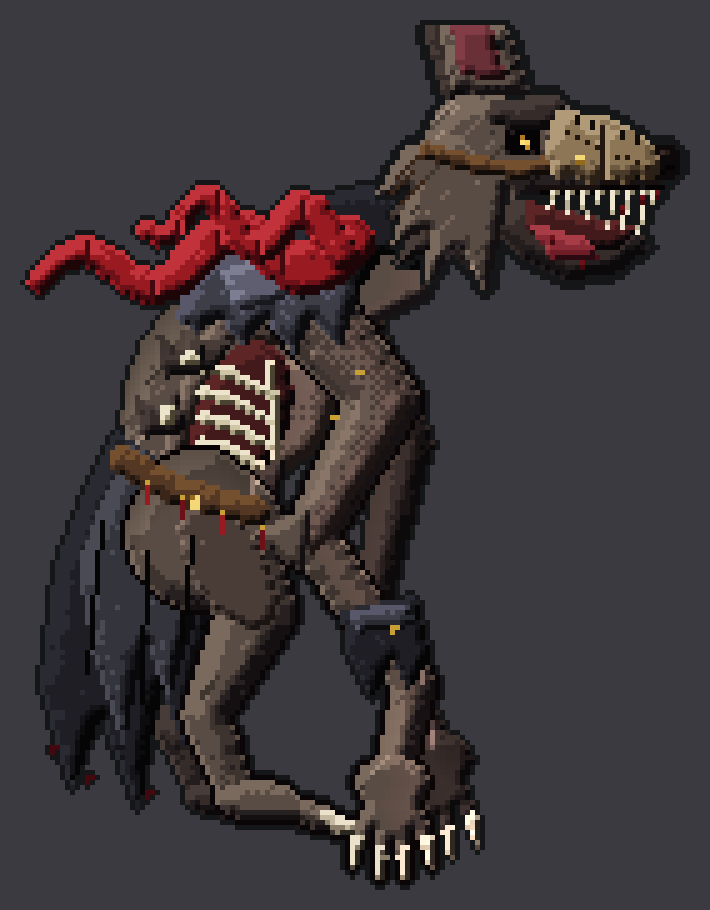
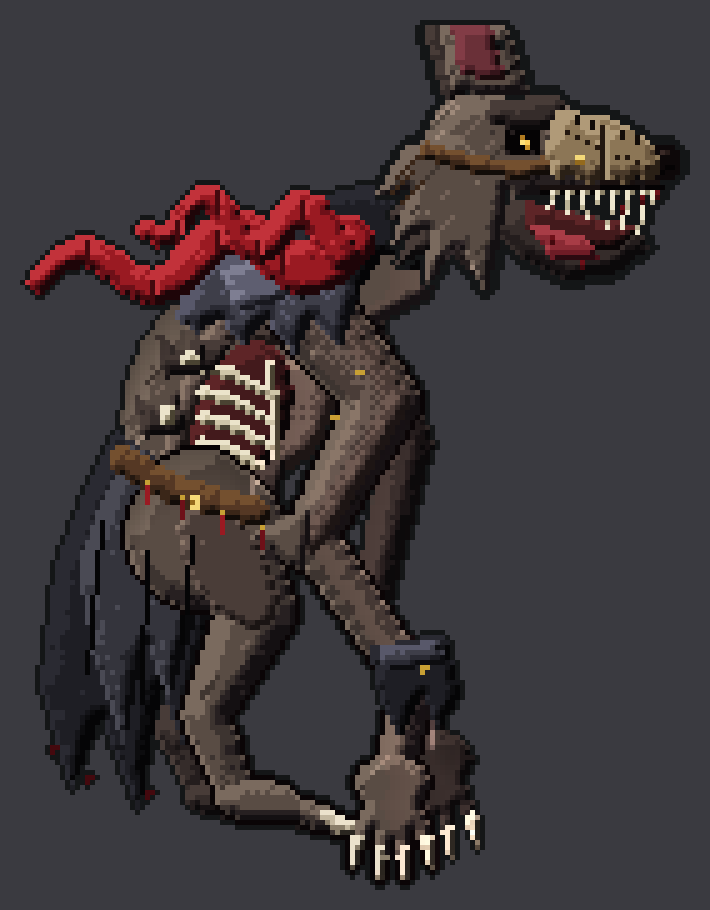
Verger beast: run and attack poses
Claude-Session: https://claude.ai/code/session_01Jpd5tdDJTR7BVueAYV1KDM

Changed region(s): [[0.4648, 0.6462, 0.6507, 0.8308]]

diff --git a/ArtSource/make_verger_beast_coat.py b/ArtSource/make_verger_beast_coat.py
@@ -15,7 +15,7 @@ def cloth(build, cols, seed, **kw):
     m = Mask(S); build(m); return shade(m, cols, tex=kw.pop('tex', 0.16), seed=seed, **kw)
 X = lambda x: int(round(x * K)); YY = lambda y: int(round((y + OY) * K))
 SCARF = None
-def coat_layers():
+def coat_layers(wrist=(62, 77)):
     back, front, cuff = [], [], []
     # the tail-coat: two layers of ragged strips hanging off the waist and dragging behind
     back.append(cloth(lambda m: PL(m, [(26, 48), (38, 56), (39, 74), (35, 90), (32, 82), (29, 99), (24, 86), (20, 96), (16, 82), (18, 66), (22, 56)]), COATD, 31, depth=3.0))
@@ -27,8 +27,9 @@ def coat_layers():
     # the belt: leather across the narrow waist
     belt = Mask(S); T(belt, [(27, 52), (34, 56), (45, 59)], [3.6, 3.6, 3.6]); cuff.append(shade(belt, LEATHER, depth=1.2, tex=0.2, seed=36))
     # the cuff on the near wrist: a ragged sleeve end with a button
-    cuff.append(cloth(lambda m: PL(m, [(56, 72), (66, 70), (68, 78), (65, 83), (63, 78), (60, 84), (57, 78)]), COATD, 37, depth=1.8))
-    cuff.append(cloth(lambda m: PL(m, [(57, 72), (65, 71), (66, 74), (58, 75)]), COATL, 38, depth=1.0, gain=0.9))
+    bd.LIMB = True; wx, wy = wrist[0] - 62, wrist[1] - 77                                    # the cuff follows the near wrist, not the trunk
+    cuff.append(cloth(lambda m: PL(m, [(56 + wx, 72 + wy), (66 + wx, 70 + wy), (68 + wx, 78 + wy), (65 + wx, 83 + wy), (63 + wx, 78 + wy), (60 + wx, 84 + wy), (57 + wx, 78 + wy)]), COATD, 37, depth=1.8))
+    cuff.append(cloth(lambda m: PL(m, [(57 + wx, 72 + wy), (65 + wx, 71 + wy), (66 + wx, 74 + wy), (58 + wx, 75 + wy)]), COATL, 38, depth=1.0, gain=0.9)); bd.LIMB = False
     # the collar: high and ragged, round the base of the neck
     cuff.append(cloth(lambda m: PL(m, [(47, 25), (53, 17), (60, 15), (68, 18), (66, 27), (62, 24), (58, 30), (54, 25), (51, 31)]), COATD, 39, depth=2.0))
     # the scarf: flung back off the neck, two torn tails
@@ -36,13 +37,15 @@ def coat_layers():
     def tail(x0, y0, x1, wid, sag, phase, seed, drop):
         n = 14; pts = [(x0 + (x1 - x0) * i / n, y0 + sag * (i / n) ** 1.5 * 10 + 3.2 * math.sin(i * 0.9 + phase) + drop * (i / n)) for i in range(n + 1)]
         ws = [wid * (1 - 0.65 * (i / n)) + 1 for i in range(n + 1)]
-        m = Mask(S); T(m, pts, ws); return shade(m, RED, depth=2.0, tex=0.2, seed=seed), pts
+        a = math.radians(bd.POSE['scarf_rot']); sx, sy = (bd.tf(58, 24, True)[0] - bd.tf(58, 24, False)[0], bd.tf(58, 24, True)[1] - bd.tf(58, 24, False)[1])   # the scarf hangs from the tilted neck but flies by the wind, not with the trunk
+        pts = [(x0 + (x - x0) * math.cos(a) - (y - y0) * math.sin(a) + sx, y0 + (x - x0) * math.sin(a) + (y - y0) * math.cos(a) + sy) for x, y in pts]
+        bd.LIMB = True; m = Mask(S); T(m, pts, ws); bd.LIMB = False; return shade(m, RED, depth=2.0, tex=0.2, seed=seed), pts
     t1, p1 = tail(57, 23, 16, 6.2, 0.2, 0.0, 40, 3); cuff.append(t1)
     t2, p2 = tail(56, 22, 30, 3.8, 0.0, 2.4, 41, -3); cuff.append(t2)
     global SCARF; SCARF = (p1, p2)
     return back, front, cuff
-def beast():
-    far, near = lm.limbs_pair(); back, front, cuff = coat_layers()
+def beast(J=None):
+    J = J or lm.STAND; far, near = lm.limbs_pair(J); wrist = J['near']['arm'][-2]; back, front, cuff = coat_layers(wrist)
     im = Image.new("RGBA", S, (0, 0, 0, 0)); im.alpha_composite(far); im.alpha_composite(lm.tone(bd.trunk()))
     for l in back: im.alpha_composite(l)
     for l in front: im.alpha_composite(l)
@@ -50,14 +53,15 @@ def beast():
     for l in cuff: im.alpha_composite(l)
     for pts in SCARF:                                                                                                                           # folds: dark creases across the cloth and lit edges
         for i in range(3, len(pts) - 1, 3):
-            x, y = pts[i]; px(im, [(X(x), YY(y) - 2 + k) for k in range(0, 5)], RED[1]); px(im, [(X(x) + 1, YY(y) - 2 + k) for k in range(0, 3)], RED[4])
-    # hand-placed detail: the clasp and vials on the belt, buttons down the coat, torn hems, stitches, blood
-    for (x, c) in ((30, RED[3]), (35, RED[2]), (40, RED[3]), (45, RED[2])): y0 = 52 + (x - 27) * 0.39 + 2.2; px(im, [(X(x), YY(y0) + k) for k in range(4)], c); px(im, [(X(x), YY(y0) - 1)], BRASS[3])
-    px(im, [(X(36) + dx, YY(56.4) + dy) for dx in range(2) for dy in range(3)], BRASS[4]); px(im, [(X(36), YY(57))], BRASS[2])
-    for (x, y) in ((58, 40), (55, 46)): px(im, [(X(x), YY(y)), (X(x) + 1, YY(y))], BRASS[3])                                                     # buttons on the shoulder rag
-    px(im, [(X(63), YY(74)), (X(63) + 1, YY(74)), (X(63), YY(74) + 1)], BRASS[3])                                                                 # the cuff button
-    for (x0, y0, x1, y1) in ((24, 60, 22, 80), (30, 64, 29, 84), (36, 62, 35, 76)): line(im, X(x0), YY(y0), X(x1), YY(y1), COATD[0])                 # seams and tears down the tail
-    for (x, y) in ((22, 94), (30, 96), (17, 90)): px(im, [(X(x), YY(y)), (X(x) + 1, YY(y)), (X(x), YY(y) + 1)], RED[1])                           # blood dried into the hem
+            bd.LIMB = True; x0, y0 = bd.XY(*pts[i]); bd.LIMB = False; px(im, [(x0, y0 - 2 + k) for k in range(0, 5)], RED[1]); px(im, [(x0 + 1, y0 - 2 + k) for k in range(0, 3)], RED[4])
+    # hand-placed detail: the clasp and vials on the belt, buttons, seams down the tail, blood in the hem
+    for (x, col) in ((30, RED[3]), (35, RED[2]), (40, RED[3]), (45, RED[2])):
+        yy0 = 52 + (x - 27) * 0.39 + 2.2; x0, y0 = bd.XY(x, yy0); px(im, [(x0, y0 + k) for k in range(4)], col); px(im, [(x0, y0 - 1)], BRASS[3])
+    x0, y0 = bd.XY(36, 56.4); px(im, [(x0 + dx, y0 + dy) for dx in range(2) for dy in range(3)], BRASS[4]); px(im, [(x0, y0 + 1)], BRASS[2])
+    for (x, y) in ((58, 40), (55, 46)): x0, y0 = bd.XY(x, y); px(im, [(x0, y0), (x0 + 1, y0)], BRASS[3])
+    bd.LIMB = True; x0, y0 = bd.XY(wrist[0] + 1, wrist[1] - 3); bd.LIMB = False; px(im, [(x0, y0), (x0 + 1, y0), (x0, y0 + 1)], BRASS[3])
+    for (xa, ya, xb, yb) in ((24, 60, 22, 80), (30, 64, 29, 84), (36, 62, 35, 76)): p0 = bd.XY(xa, ya); p1 = bd.XY(xb, yb); line(im, p0[0], p0[1], p1[0], p1[1], COATD[0])
+    for (x, y) in ((22, 94), (30, 96), (17, 90)): x0, y0 = bd.XY(x, y); px(im, [(x0, y0), (x0 + 1, y0), (x0, y0 + 1)], RED[1])
     return bd.with_head(im)
 if __name__ == "__main__":
     f = crop(beast(), 2); f.save(os.path.join(OUT, "verger_beast_coat.png"))

diff --git a/ArtSource/make_verger_beast_poses.py b/ArtSource/make_verger_beast_poses.py
@@ -1,0 +1,41 @@
+# Verger beast: the run and attack poses (Yan, 2026-11-20: "Draw the run and attack poses"), built from the same parts as the standing pose (make_verger_beast_coat.py) with a new pose: the trunk, head, coat and scarf lean round the pelvis, the limbs are placed joint by joint.
+# python3 ArtSource/make_verger_beast_poses.py -> mutants_anim/boss_concepts/verger_beast_poses_4x.png (+ verger_beast_run.png, verger_beast_attack.png)
+import os, sys
+import numpy as np
+from PIL import Image
+sys.path.insert(0, os.path.dirname(os.path.abspath(__file__)))
+from pxart import *
+import make_verger_beast_body as bd
+import make_verger_beast_limbs as lm
+import make_verger_beast_coat as ct
+from make_verger_beast import BONE
+OUT = os.path.join(os.path.dirname(os.path.abspath(__file__)), 'mutants_anim', 'boss_concepts')
+def H(h, w, **kw): return dict(haunch=h, **kw)
+POSES = {
+  # galloping, all fours, mid-stride, airborne: the body nearly level, the head up and forward, the hind legs thrown back, the forelegs reaching, the coat and scarf streaming behind
+  'run': dict(pose=dict(tilt=58, pivot=(34, 58), ox=22, oy=-4, head_rot=-34, jaw=20, scarf_rot=10),
+    J=dict(far=dict(haunch=(34, 62, 8.5, 8.5), leg=[(34, 60), (24, 72), (14, 78), (5, 90)], paw=(7, 92), arm=[(60, 52), (72, 60), (84, 68), (94, 80)], hand=(94, 82)),
+           near=dict(haunch=(36, 62, 10.5, 10), leg=[(37, 58), (51, 68), (41, 80), (49, 93)], paw=(52, 94), arm=[(62, 54), (64, 68), (58, 82), (62, 94)], hand=(62, 95)))),
+  # the swipe: reared up and leaning in, the head thrust forward with the jaw wide, the near arm swung high and across, the far arm cocked back, the legs braced
+  'attack': dict(pose=dict(tilt=22, pivot=(34, 58), ox=4, oy=0, head_rot=12, jaw=34, scarf_rot=-6),
+    J=dict(far=dict(haunch=(36, 62, 8.5, 8.5), leg=[(34, 60), (44, 74), (34, 88), (36, 97)], paw=(39, 98), arm=[(50, 34), (62, 52), (74, 66), (84, 76)], hand=(84, 78)),
+           near=dict(haunch=(38, 62, 10.5, 10), leg=[(37, 58), (54, 70), (46, 86), (56, 97)], paw=(59, 98), arm=[(58, 36), (74, 56), (90, 66), (102, 64), (110, 62)], hand=(110, 64)))),
+}
+def draw(name):
+    P = POSES[name]; bd.POSE.update(dict(tilt=0.0, pivot=(34, 58), ox=0.0, oy=0.0, head_rot=0.0, jaw=16)); bd.POSE.update(P['pose'])
+    im = ct.beast(P['J'])
+    if name == 'attack':                                                                    # the swing's trail: pale arcs sweeping down to the claws, brightest at the hand
+        for k, (r0, ww) in enumerate(((30, 3), (25, 2), (20, 2))):
+            n = 24
+            for i in range(n):
+                t = i / n; ang = np.radians(-78 + 76 * t); x = 82 + r0 * np.cos(ang); y = 90 + r0 * np.sin(ang)
+                for dd in range(ww): px(im, [(int(round((x + bd.POSE['ox']) * bd.K)) + dd, int(round((y + 14) * bd.K)) + dd // 2)], BONE[4 if t > 0.55 else 3 if t > 0.3 else 2])
+    bd.POSE.update(dict(tilt=0.0, ox=0.0, oy=0.0, head_rot=0.0, jaw=16)); return im
+if __name__ == "__main__":
+    cells = {}
+    for n in POSES: cells[n] = crop(draw(n), 2); cells[n].save(os.path.join(OUT, "verger_beast_%s.png" % n))
+    cells = {'stand': crop(ct.beast(), 2), **cells}
+    W = sum(c.width for c in cells.values()) * 4 + 80; Hh = max(c.height for c in cells.values()) * 4 + 40
+    sheet = Image.new("RGBA", (W, Hh), (58, 58, 64, 255)); x = 20
+    for n, c in cells.items(): sheet.alpha_composite(c.resize((c.width * 4, c.height * 4), Image.NEAREST), (x, Hh - c.height * 4 - 20)); x += c.width * 4 + 20
+    sheet.save(os.path.join(OUT, "verger_beast_poses_4x.png")); print({n: c.size for n, c in cells.items()})

diff --git a/ArtSource/make_verger_beast_body.py b/ArtSource/make_verger_beast_body.py
@@ -9,12 +9,24 @@ import make_verger_beast as mb
 from make_verger_beast import FUR, FURD, BONE, DARK, strands
 import make_verger_beast_head as hd
 OUT = os.path.join(os.path.dirname(os.path.abspath(__file__)), 'mutants_anim', 'boss_concepts')
-K = 1.5; OY = 14; S = (190, 200)
-def Y(pts): return [(x * K, (y + OY) * K) for x, y in pts]
+K = 1.5; OY = 14; S = (250, 210)
+import math
+POSE = dict(tilt=0.0, pivot=(34, 58), ox=0.0, oy=0.0, head_rot=0.0, jaw=16, scarf_rot=0.0)       # the pose: the trunk, head, coat and scarf lean by `tilt` round the pelvis, `ox/oy` slide everything, the head turns and the jaw opens
+LIMB = False                                                                          # True while the limbs are drawn: they are placed by hand and do not follow the tilt
+def tf(x, y, tilt=True):
+    p = POSE
+    if tilt and p['tilt']:
+        a = math.radians(p['tilt']); dx, dy = x - p['pivot'][0], y - p['pivot'][1]
+        x, y = p['pivot'][0] + dx * math.cos(a) - dy * math.sin(a), p['pivot'][1] + dx * math.sin(a) + dy * math.cos(a)
+    return x + p['ox'], y + p['oy']
+def XY(x, y, tilt=True):
+    a, c = tf(x, y, tilt and not LIMB); return int(round(a * K)), int(round((c + OY) * K))
+def Y(pts): return [((lambda q: (q[0] * K, (q[1] + OY) * K))(tf(x, y, not LIMB))) for x, y in pts]
 def wd(w): return [v * K for v in w]
 def T(m, pts, w): return m.tube(Y(pts), wd(w))
 def PL(m, pts): return m.poly(Y(pts))
-def E(m, cx, cy, rx, ry, rot=0): return m.ell(cx * K, (cy + OY) * K, rx * K, ry * K, rot)
+def E(m, cx, cy, rx, ry, rot=0):
+    x, y = tf(cx, cy, not LIMB); return m.ell(x * K, (y + OY) * K, rx * K, ry * K, rot + (0 if LIMB else POSE['tilt']))
 MUSC = ramp("#1a1413", "#2f2624", "#4a3d38", "#695850", "#8a7668")        # lit muscle under thin fur
 def trunk():
     L = []
@@ -45,9 +57,11 @@ def trunk():
     part(lambda m: PL(m, [(52, 24), (60, 18), (70, 20), (68, 30), (60, 34), (54, 32)]), FUR, fur=70, depth=2, tex=0.2, seed=25)
     return paint(S, L)
 def with_head(body):
-    h = hd.head(); ax, ay = 14, 40                                           # the head's neck anchor
-    nx, ny = int(66 * K) + 6, int((21 + OY) * K)                             # where the neck ends on the trunk
-    im = body.copy(); im.alpha_composite(h, (nx - ax, ny - ay)); return outline(im)
+    h = hd.head(POSE['jaw']); ax, ay = 14, 40                                # the head's neck anchor
+    pad = 30; big = Image.new("RGBA", (h.width + 2 * pad, h.height + 2 * pad), (0, 0, 0, 0)); big.alpha_composite(h, (pad, pad))
+    if POSE['head_rot']: big = big.rotate(-POSE['head_rot'], resample=Image.NEAREST, center=(ax + pad, ay + pad))      # clockwise positive
+    nx, ny = XY(66, 21); nx += 6                                             # where the neck ends on the trunk
+    im = body.copy(); im.alpha_composite(big, (nx - ax - pad, ny - ay - pad)); return outline(im)
 if __name__ == "__main__":
     b = trunk(); f = crop(with_head(b), 2); f.save(os.path.join(OUT, "verger_beast_body.png"))
     W = Image.new("RGBA", (f.width * 5 + 20, f.height * 5 + 20), (58, 58, 64, 255)); W.alpha_composite(f.resize((f.width * 5, f.height * 5), Image.NEAREST), (10, 10)); W.save(os.path.join(OUT, "verger_beast_body_5x.png")); print(f.size)

diff --git a/ArtSource/make_verger_beast_limbs.py b/ArtSource/make_verger_beast_limbs.py
@@ -24,7 +24,7 @@ def limb(cols, haunch, leg, lw, paw, arm, aw, hand, near, seed):
     L.append(shade(cl, CLAW, depth=1.0))
     part(lambda m: T(m, arm, aw), cols, fur=150 if near else 80, tex=0.14, seed=s + 3, depth=3.4, bias=-0.05)                                      # the arm
     if near: part(lambda m: T(m, arm[:3], [aw[0] * 0.7, aw[1] * 0.7, aw[2] * 0.7]), MUSC, fur=20, depth=1.8, tex=0.1, seed=s + 4, gain=0.82)          # the lit muscle on the upper arm
-    if near: part(lambda m: PL(m, [(52, 58), (44, 62), (51, 67)]), FUR, fur=10, depth=1.2, seed=s + 6)                                                      # the elbow, a bony point
+    if near: part(lambda m: PL(m, [(arm[2][0], arm[2][1] - 4), (arm[2][0] - 8, arm[2][1]), (arm[2][0] - 1, arm[2][1] + 5)]), FUR, fur=10, depth=1.2, seed=s + 6)                                                      # the elbow, a bony point
     hx, hy = hand                                                                                                                               # the hand: a fur-backed palm, four long fingers, bone claws
     part(lambda m: (E(m, hx, hy, 4.8, 3.6), [T(m, [(hx + dx * 0.4, hy + 1), (hx + dx * 1.3, hy + 8 + (1.5 if i in (1, 2) else 0))], [2.8, 1.6]) for i, dx in enumerate((-3.6, -1.2, 1.2, 3.6))]), cols, fur=26, depth=1.6, tex=0.1, seed=s + 5)
     cl = Mask(S)
@@ -46,9 +46,15 @@ def tone(im):
         x1 = xs[-1]
         for x in xs[-9:]: a[y, x, :3] *= 1.0 + 0.016 * (9 - (x1 - x)); a[y, x, 0] *= 1.04
     return Image.fromarray(np.clip(a, 0, 255).astype(np.uint8), "RGBA")
-def limbs_pair():
-    far = limb(FURD, (36, 62, 8.5, 8.5), [(34, 60), (41, 74), (34, 88), (38, 96)], [12, 8, 5, 4], (41, 97), [(56, 32), (65, 50), (60, 72), (69, 90)], [9, 6.4, 4.6, 3.8], (69, 92), False, 40)
-    near = limb(FUR, (38, 62, 10.5, 10), [(37, 58), (45, 72), (38, 86), (42, 96)], [15, 10, 6, 4.8], (45, 97.5), [(50, 30), (62, 44), (52, 62), (66, 82), (63, 94)], [11, 9, 6.4, 5.4, 4.6], (63, 95), True, 60)
+STAND = dict(far=dict(haunch=(36, 62, 8.5, 8.5), leg=[(34, 60), (41, 74), (34, 88), (38, 96)], paw=(41, 97), arm=[(56, 32), (65, 50), (60, 72), (69, 90)], hand=(69, 92)),
+             near=dict(haunch=(38, 62, 10.5, 10), leg=[(37, 58), (45, 72), (38, 86), (42, 96)], paw=(45, 97.5), arm=[(50, 30), (62, 44), (52, 62), (66, 82), (63, 94)], hand=(63, 95)))
+def limbs_pair(J=None):
+    J = J or STAND; bd.LIMB = True
+    try:
+        f, n = J['far'], J['near']
+        far = limb(FURD, f['haunch'], f['leg'], [12, 8, 5, 4], f['paw'], f['arm'], [9, 6.4, 4.6, 3.8], f['hand'], False, 40)
+        near = limb(FUR, n['haunch'], n['leg'], [15, 10, 6, 4.8], n['paw'], n['arm'], [11, 9, 6.4, 5.4, 4.6], n['hand'], True, 60)
+    finally: bd.LIMB = False
     return tone(far), tone(near)
 def beast_bare():
     far, near = limbs_pair(); im = Image.new("RGBA", S, (0, 0, 0, 0)); im.alpha_composite(far); im.alpha_composite(tone(bd.trunk())); im.alpha_composite(near)

diff --git a/ArtSource/WORK_LOG.md b/ArtSource/WORK_LOG.md
@@ -6861,3 +6861,4 @@ Yan: "give me the concept for that boss we talked about after this". `ArtSource/
 - 9ag beast PART 3+4: legs and arms (`make_verger_beast_limbs.py` -> `boss_concepts/verger_beast_limbs(_5x).png`): haunch + long digitigrade shin + paw with bone claws, long arms with fur-backed hands and bone claws, dark edge on the near limbs. Reads as a hunched werewolf now. Weak: arm is a straight tube, thigh muscle a swirl, no coat yet.
 - 9ag beast PART 5: the coat (`make_verger_beast_coat.py` -> `boss_concepts/verger_beast_coat(_5x).png`): ragged tail-coat in two layers, shoulder rags, collar, sleeve cuff with a button, the vial belt with brass clasp, the red scarf flung back. Weak: scarf is a flat slab, shoulder rags barely read, fur one brown everywhere. Concept only.
 - 9ag beast polish: fur tone (back darker, chest/belly warmer), bent near arm with a bony elbow, far arm forward and visible, shoulder rags in a lighter cloth with torn edge (ribs stay visible), scarf as two wavy folded tails. Still weak: scarf reads slightly worm-like, hands/paws cluster at the bottom right. Concept only.
+- 9ag beast poses: run (galloping, level body, head up, hind legs thrown back, coat streaming) and attack (lunge, jaw wide, both arms reaching, swipe arcs) (`make_verger_beast_poses.py` -> `boss_concepts/verger_beast_run.png`, `verger_beast_attack.png`, `verger_beast_poses_4x.png`). Pose machinery added: bd.POSE (tilt about the pelvis, offsets, head turn, jaw, scarf angle), limbs placed per joint. Weak: scarf tangles on the back in the run, swipe arcs are thin dotted lines, one frame per pose. Concept only.
